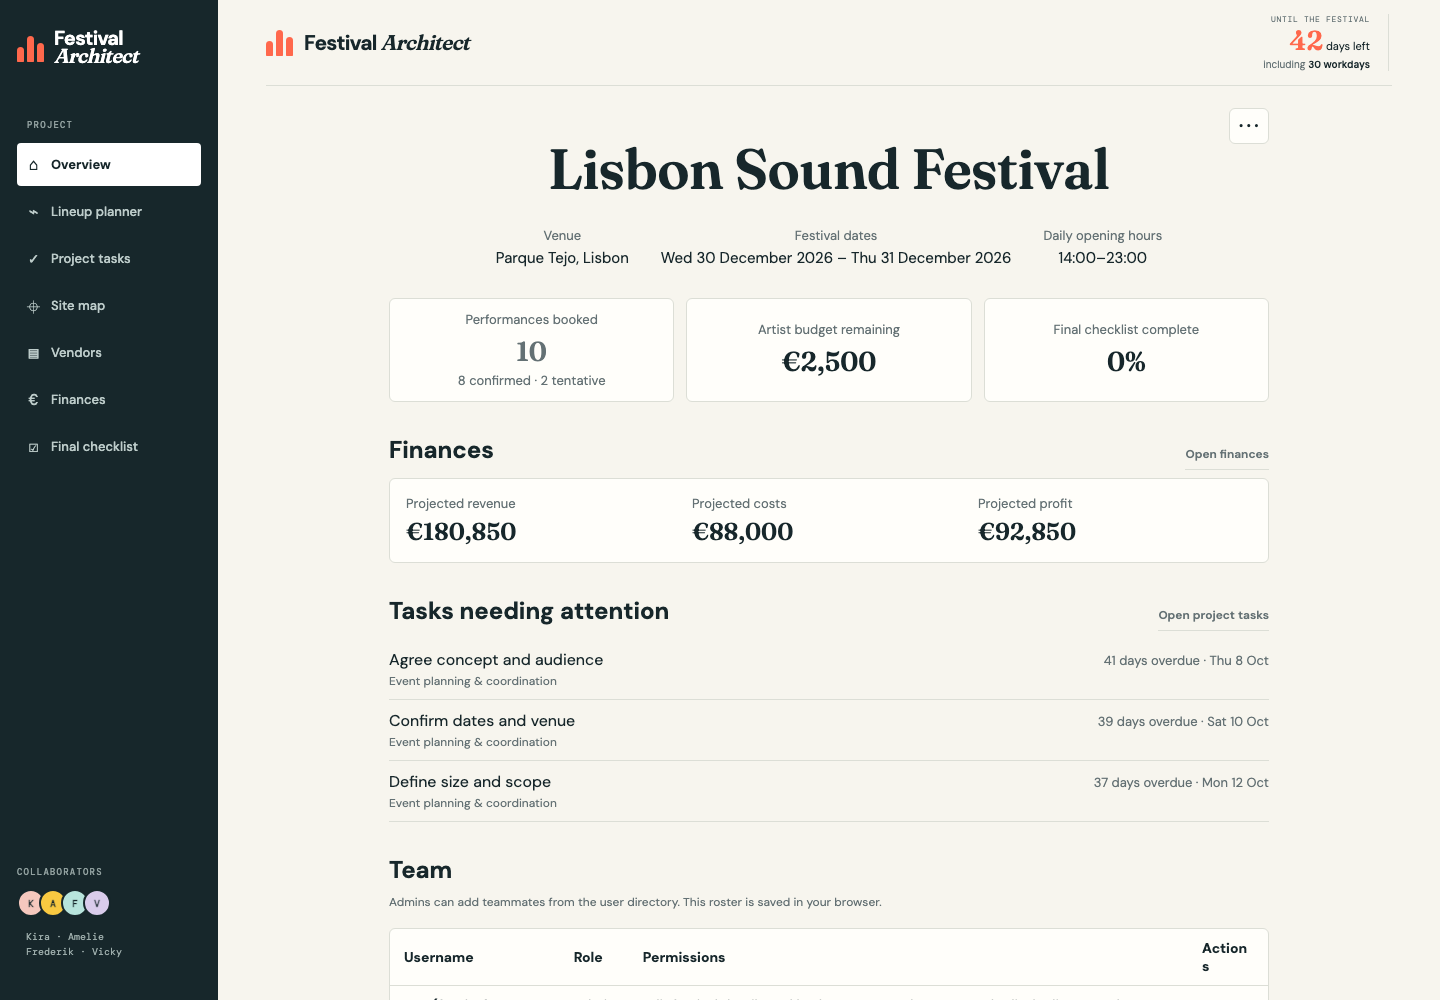
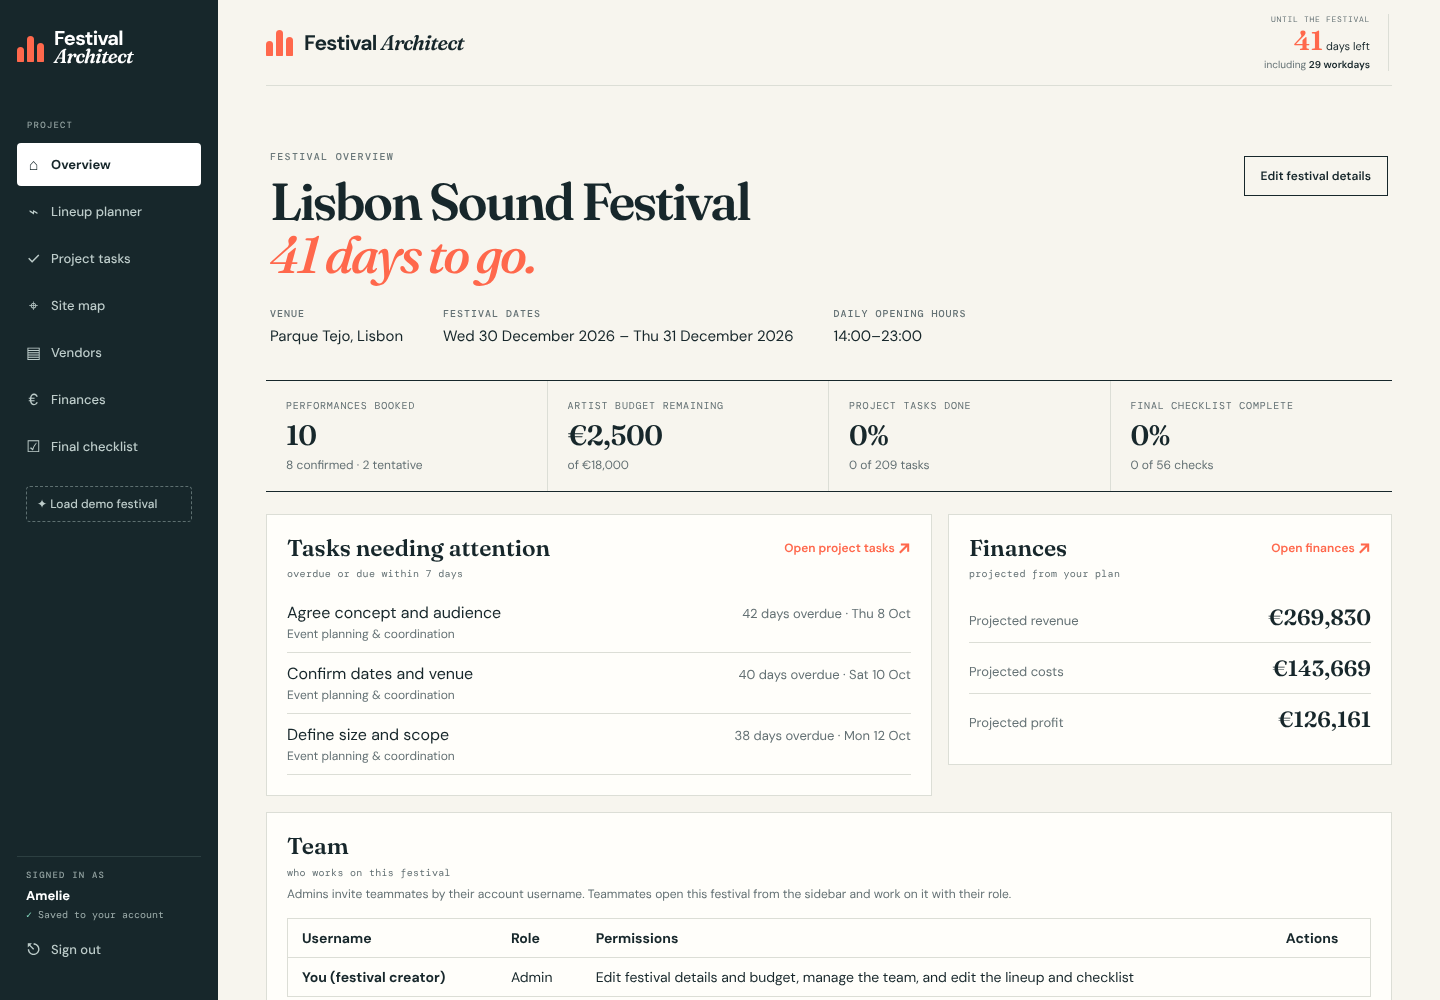
Overview: same width, header, tiles and cards as the other sections
- full width and left-aligned like Lineup, Tasks, Site map, Vendors, Finances
- headline with an orange countdown line; visible "Edit festival details"
- tile row in the Finances style, new "Project tasks done" tile
- tasks and finances side by side as cards with "Open … ↗" links
- all IDs unchanged; no test changed

Claude-Session: https://claude.ai/code/session_015vEMde25idnxUhkYQg1wjU

diff --git a/styles.css b/styles.css
@@ -100,25 +100,6 @@ button:disabled{opacity:.4;cursor:default;transform:none}.form-grid{margin-botto
 @media(max-width:650px){.plan-tools-copy{flex-basis:100%}.plan-tools{gap:8px 20px}.slot-actions,.restore-actions{justify-content:flex-start}.slot-actions .quiet{margin-left:0}.calendar-help{font-size:11px}.dialog-actions .secondary{display:block}}
 @media print{.plan-tools,.calendar-help,.add-stage-slot,.calendar-slot-trigger{display:none!important}.vertical-performance .entry-status{font-size:6px;line-height:8px}.vertical-performance.tentative{border-left-style:dashed}}
 
-#overview-view{position:relative;max-width:880px;margin:0 auto;padding:54px 0}
-.overview-heading{text-align:center}
-.overview-heading h1{font:600 clamp(32px,5vw,56px)/1.05 Fraunces,serif;margin:0 40px 28px;overflow-wrap:anywhere}
-.overview-facts{display:flex;flex-wrap:wrap;justify-content:center;gap:18px 32px;margin:0 0 28px}
-.overview-facts div{max-width:100%;overflow-wrap:anywhere}
-.overview-facts dt,.overview-stat span{font-size:13px;color:var(--muted)}
-.overview-facts dd{margin:4px 0 0;font-size:15px}
-.overview-menu{position:absolute;top:22px;right:0;z-index:2}
-.overview-menu summary{list-style:none;display:grid;place-items:center;width:40px;height:36px;border:1px solid var(--line);border-radius:6px;background:var(--white);font-size:23px;cursor:pointer}
-.overview-menu summary::-webkit-details-marker{display:none}
-.overview-menu div{position:absolute;right:0;margin-top:6px;padding:5px;background:var(--white);border:1px solid var(--line);border-radius:6px;box-shadow:0 6px 18px #17272b16}
-.overview-menu button{white-space:nowrap;border:0;background:transparent;color:var(--ink);font:inherit;padding:8px 10px;cursor:pointer}
-.overview-menu button:hover,.overview-stat:hover{background:#eeeee6}
-.overview-snapshot{display:grid;grid-template-columns:repeat(3,minmax(0,1fr));gap:12px;margin:30px 0 48px}
-.overview-stat{display:flex;flex-direction:column;align-items:center;justify-content:center;gap:7px;min-height:96px;padding:12px;border:1px solid var(--line);border-radius:6px;background:var(--white);color:var(--ink);font:inherit;cursor:pointer}
-.overview-stat strong{font:600 27px Fraunces,serif;max-width:100%;overflow-wrap:anywhere}
-.overview-booking-counts{display:grid;justify-items:center;gap:4px}
-.overview-team h2{margin:0 0 8px}
-.overview-summary{margin:0 0 32px}
 #overview-task-list{list-style:none;margin:0;padding:0}
 #overview-task-list li{border-bottom:1px solid var(--line)}
 #overview-task-list button{display:flex;justify-content:space-between;align-items:baseline;gap:12px;width:100%;padding:10px 0;border:0;background:transparent;color:var(--ink);font:inherit;text-align:left;cursor:pointer}
@@ -128,9 +109,9 @@ button:disabled{opacity:.4;cursor:default;transform:none}.form-grid{margin-botto
 #overview-task-list time{flex-shrink:0;color:var(--muted);font-size:13px}
 #overview-task-empty{color:var(--muted)}
 .overview-team .field-help{color:var(--muted)}
-.overview-table-wrap{overflow-x:auto;border:1px solid var(--line);border-radius:6px;background:var(--white)}
+.overview-table-wrap{overflow-x:auto;border:1px solid var(--line);background:var(--white)}
 .overview-table{width:100%;min-width:490px;border-collapse:collapse;font-size:14px;text-align:left}
-.overview-table th,.overview-table td{padding:10px 14px;border-bottom:1px solid var(--line);overflow-wrap:anywhere}
+.overview-table th,.overview-table td{padding:10px 14px;border-bottom:1px solid var(--line);overflow-wrap:break-word}
 .overview-table th[scope=row]{max-width:180px}
 .overview-table tr:last-child td,.overview-table tr:last-child th[scope=row]{border-bottom:0}
 #team-form{display:grid;grid-template-columns:minmax(0,1fr) minmax(100px,150px) auto;align-items:end;gap:12px;margin-top:16px}
@@ -138,12 +119,60 @@ button:disabled{opacity:.4;cursor:default;transform:none}.form-grid{margin-botto
 #team-form input,#team-form select,.overview-table select{min-width:0;padding:8px;border:1px solid var(--line);border-radius:4px;background:var(--white);color:var(--ink);font:inherit}
 .overview-dialog-actions{display:flex;flex-wrap:wrap;justify-content:flex-end;gap:10px}
 #overview-view [role=status]:empty,#overview-view .form-message:empty,#overview-form .form-message:empty{display:none}
+/* Overview — same width, header, figures and cards as the other sections (feature-plans/overview-design.md). */
+#overview-view{position:relative;padding:0 0 28px}
+.overview-hero{display:flex;justify-content:space-between;align-items:flex-start;gap:24px}
+.overview-hero h1{overflow-wrap:anywhere}
+.overview-hero h1 em:empty,.overview-hero h1:has(em:empty) br{display:none}
+.overview-facts{display:flex;flex-wrap:wrap;gap:12px 40px;margin:26px 0 0}
+.overview-facts div{max-width:100%;overflow-wrap:anywhere}
+.overview-facts dt{font:500 10px 'DM Mono',monospace;letter-spacing:1px;color:var(--muted);text-transform:uppercase}
+.overview-facts dd{margin:6px 0 0;font-size:15px}
+.overview-hero #overview-setup{margin-top:26px}
+.overview-menu{flex:none;margin-top:6px}
+.overview-kpis{display:grid;grid-template-columns:repeat(4,minmax(0,1fr));border-top:1px solid var(--ink);border-bottom:1px solid var(--ink);margin:0 0 22px}
+.overview-kpi{display:block;min-width:0;padding:18px 20px;border:0;border-right:1px solid var(--line);background:transparent;color:var(--ink);font:inherit;text-align:left;cursor:pointer}
+.overview-kpi:last-child{border-right:0}
+.overview-kpi:hover{background:var(--white)}
+.overview-kpi:focus-visible,.overview-open:focus-visible{outline:2px solid var(--coral);outline-offset:-2px}
+.overview-kpi>span{display:block;font:10px 'DM Mono',monospace;letter-spacing:.8px;color:var(--muted);margin-bottom:8px;text-transform:uppercase}
+.overview-kpi strong{display:block;font:600 28px/1.1 Fraunces,serif;letter-spacing:-.6px;overflow-wrap:anywhere}
+.overview-kpi small{display:block;font-size:12px;color:var(--muted);margin-top:6px}
+.overview-columns{display:grid;grid-template-columns:minmax(0,3fr) minmax(0,2fr);gap:16px;align-items:start;margin-bottom:16px}
+.overview-card{padding:20px;border:1px solid var(--line);background:var(--white)}
+.overview-card+.overview-card{margin-top:16px}
+.overview-columns .overview-card+.overview-card{margin-top:0}
+.overview-card-heading{display:flex;justify-content:space-between;align-items:flex-start;gap:16px;margin-bottom:12px}
+.overview-card-heading h2{margin:0;font:600 23px/1.2 Fraunces,serif}
+.overview-card-heading h2 small{display:block;margin-top:5px;font:10px 'DM Mono',monospace;color:var(--muted);letter-spacing:.3px}
+.overview-open{flex:none;border:0;background:transparent;padding:4px 0;font:600 12px 'DM Sans',sans-serif;color:var(--coral);white-space:nowrap;cursor:pointer}
+.overview-open:hover{text-decoration:underline}
+.overview-open span{font-size:17px;line-height:1;vertical-align:-1px;margin-left:3px}
+.overview-finances{display:grid;margin:0}
+.overview-finances div{display:flex;justify-content:space-between;align-items:baseline;gap:12px;padding:11px 0;border-bottom:1px solid var(--line)}
+.overview-finances div:last-child{border-bottom:0}
+.overview-finances dt{font-size:13px;color:var(--muted)}
+.overview-finances dd{margin:0;font:600 22px Fraunces,serif;text-align:right;overflow-wrap:anywhere}
+.overview-finances .is-loss{color:#a23e2e}
+.overview-team .overview-card-heading{margin-bottom:6px}
+.overview-team .field-help{margin:0 0 14px}
+@media(max-width:1000px){
+  .overview-kpis{grid-template-columns:1fr 1fr}
+  .overview-kpi:nth-child(2){border-right:0}
+  .overview-kpi:nth-child(-n+2){border-bottom:1px solid var(--line)}
+  .overview-columns{grid-template-columns:minmax(0,1fr)}
+}
 @media(max-width:550px){
-  #overview-view{padding:54px 0 28px}
-  .overview-facts{gap:12px 20px}
-  .overview-snapshot{grid-template-columns:1fr;gap:8px;margin-bottom:32px}
-  .overview-stat{min-height:62px;flex-direction:row;justify-content:space-between}
-  .overview-booking-counts{justify-items:end;text-align:right}
+  .overview-hero{flex-direction:column;gap:14px}
+  .overview-menu{margin-top:0}
+  .overview-facts{gap:12px 24px}
+  .overview-kpi{padding:14px 12px}
+  .overview-kpi strong{font-size:22px}
+  .overview-card{padding:14px}
+  .overview-card-heading{flex-direction:column;gap:6px}
+  .overview-card-heading h2{font-size:19px}
+}
+@media(max-width:550px){
   #overview-task-list button{flex-wrap:wrap;gap:4px 12px}
   #team-form{grid-template-columns:minmax(0,1fr) minmax(90px,115px)}
   #team-form button{justify-self:start}
@@ -461,14 +490,6 @@ button:disabled{opacity:.4;cursor:default;transform:none}.form-grid{margin-botto
 .work-board-card .work-board-due{white-space:normal}
 
 .lineup-actions{display:flex;gap:8px;align-items:center}
-.overview-section-heading{display:flex;gap:10px;align-items:baseline;justify-content:space-between;margin-bottom:8px;flex-wrap:wrap}
-.overview-section-heading h2{margin:0}
-.overview-snapshot{margin-bottom:32px}
-.overview-finances{display:grid;grid-template-columns:repeat(3,minmax(0,1fr));gap:12px;margin:0;background:var(--white);padding:16px;border:1px solid var(--line);border-radius:6px}
-.overview-finances dt{font-size:13px;color:var(--muted)}
-.overview-finances dd{margin:5px 0 0;font:600 clamp(17px,2.5vw,24px) Fraunces,serif;overflow-wrap:anywhere}
-.overview-finances .is-loss{color:#a23e2e}
-@media(max-width:480px){.overview-finances{grid-template-columns:1fr;gap:10px}.overview-finances div{display:flex;align-items:baseline;justify-content:space-between;gap:10px}.overview-finances dd{margin:0;text-align:right}}
 /* Load demo festival (left sidebar) */
 .sidebar-demo{margin:18px 9px 0;border:1px dashed #5d6f70;background:transparent;color:#bdccca;font:500 12px 'DM Sans';text-align:left;padding:9px 10px;border-radius:4px;cursor:pointer}
 .sidebar-demo:hover{border-color:#ff684c;color:#fff}

diff --git a/index.html b/index.html
@@ -119,53 +119,68 @@
       </header>
 
       <main id="overview-view">
-        <details class="overview-menu" id="overview-menu">
-          <summary aria-label="Festival options">⋯</summary>
-          <div><button type="button" id="overview-edit">Edit festival details</button></div>
-        </details>
-        <section class="overview-heading">
-          <h1 id="overview-title">Overview</h1>
-          <dl class="overview-facts">
-            <div id="overview-venue-fact" hidden><dt>Venue</dt><dd id="overview-venue"></dd></div>
-            <div><dt>Festival dates</dt><dd id="overview-dates"></dd></div>
-            <div><dt>Daily opening hours</dt><dd id="overview-hours"></dd></div>
-          </dl>
-          <button type="button" class="button primary" id="overview-setup" hidden>Set up festival</button>
-          <p class="field-help" id="overview-final" hidden>Reopen the final plan in the Lineup Planner to edit these details.</p>
-          <p id="overview-status" role="status"></p>
+        <section class="checklist-hero overview-hero" aria-labelledby="overview-title">
+          <div class="overview-hero-text">
+            <p class="eyebrow">FESTIVAL OVERVIEW</p>
+            <h1><span id="overview-title">Overview</span><br /><em id="overview-tagline"></em></h1>
+            <dl class="overview-facts">
+              <div id="overview-venue-fact" hidden><dt>Venue</dt><dd id="overview-venue"></dd></div>
+              <div><dt>Festival dates</dt><dd id="overview-dates"></dd></div>
+              <div><dt>Daily opening hours</dt><dd id="overview-hours"></dd></div>
+            </dl>
+            <button type="button" class="button primary" id="overview-setup" hidden>Set up festival</button>
+            <p class="field-help" id="overview-final" hidden>Reopen the final plan in the Lineup Planner to edit these details.</p>
+            <p id="overview-status" role="status"></p>
+          </div>
+          <div class="overview-menu" id="overview-menu">
+            <button type="button" class="button secondary" id="overview-edit">Edit festival details</button>
+          </div>
         </section>
-        <section class="overview-snapshot" aria-label="Planning progress">
-          <button type="button" class="overview-stat" data-open-section="Lineup planner">
+        <section class="overview-kpis" aria-label="Planning progress">
+          <button type="button" class="overview-kpi" data-open-section="Lineup planner">
             <span>Performances booked</span>
-            <span class="overview-booking-counts">
-              <strong id="overview-performances"></strong>
-              <span id="overview-booking-status"></span>
-            </span>
+            <strong id="overview-performances"></strong>
+            <small id="overview-booking-status"></small>
           </button>
-          <button type="button" class="overview-stat" data-open-section="Lineup planner"><span>Artist budget remaining</span><strong id="overview-budget"></strong></button>
-          <button type="button" class="overview-stat" data-open-section="Final checklist"><span>Final checklist complete</span><strong id="overview-checklist"></strong></button>
+          <button type="button" class="overview-kpi" data-open-section="Lineup planner">
+            <span>Artist budget remaining</span>
+            <strong id="overview-budget"></strong>
+            <small id="overview-budget-total"></small>
+          </button>
+          <button type="button" class="overview-kpi" data-open-section="Task board">
+            <span>Project tasks done</span>
+            <strong id="overview-tasks-done">–</strong>
+            <small id="overview-tasks-count"></small>
+          </button>
+          <button type="button" class="overview-kpi" data-open-section="Final checklist">
+            <span>Final checklist complete</span>
+            <strong id="overview-checklist"></strong>
+            <small id="overview-checklist-count"></small>
+          </button>
         </section>
-        <section class="overview-summary" id="overview-finances" aria-labelledby="overview-finances-title">
-          <div class="overview-section-heading">
-            <h2 id="overview-finances-title">Finances</h2>
-            <button type="button" class="button quiet" data-open-section="Finances">Open finances</button>
-          </div>
-          <dl class="overview-finances">
-            <div><dt>Projected revenue</dt><dd id="overview-revenue"></dd></div>
-            <div><dt>Projected costs</dt><dd id="overview-costs"></dd></div>
-            <div><dt id="overview-profit-label">Projected profit or loss</dt><dd id="overview-profit"></dd></div>
-          </dl>
-        </section>
-        <section class="overview-summary" id="overview-tasks" aria-labelledby="overview-tasks-title">
-          <div class="overview-section-heading">
-            <h2 id="overview-tasks-title">Tasks needing attention</h2>
-            <button type="button" class="button quiet" data-open-section="Task board">Open project tasks</button>
-          </div>
-          <ul id="overview-task-list"></ul>
-          <p class="field-help" id="overview-task-empty" hidden>No unfinished tasks are overdue or due in the next seven days.</p>
-        </section>
-        <section class="overview-team" aria-labelledby="overview-team-title">
-          <h2 id="overview-team-title">Team</h2>
+        <div class="overview-columns">
+          <section class="overview-card" id="overview-tasks" aria-labelledby="overview-tasks-title">
+            <div class="overview-card-heading">
+              <h2 id="overview-tasks-title">Tasks needing attention <small>overdue or due within 7 days</small></h2>
+              <button type="button" class="overview-open" data-open-section="Task board">Open project tasks<span aria-hidden="true">↗</span></button>
+            </div>
+            <ul id="overview-task-list"></ul>
+            <p class="field-help" id="overview-task-empty" hidden>No unfinished tasks are overdue or due in the next seven days.</p>
+          </section>
+          <section class="overview-card" id="overview-finances" aria-labelledby="overview-finances-title">
+            <div class="overview-card-heading">
+              <h2 id="overview-finances-title">Finances <small>projected from your plan</small></h2>
+              <button type="button" class="overview-open" data-open-section="Finances">Open finances<span aria-hidden="true">↗</span></button>
+            </div>
+            <dl class="overview-finances">
+              <div><dt>Projected revenue</dt><dd id="overview-revenue"></dd></div>
+              <div><dt>Projected costs</dt><dd id="overview-costs"></dd></div>
+              <div><dt id="overview-profit-label">Projected profit or loss</dt><dd id="overview-profit"></dd></div>
+            </dl>
+          </section>
+        </div>
+        <section class="overview-card overview-team" aria-labelledby="overview-team-title">
+          <div class="overview-card-heading"><h2 id="overview-team-title">Team <small>who works on this festival</small></h2></div>
           <p class="field-help" id="team-help">Admins invite teammates by their account username. Teammates open this festival from the sidebar and work on it with their role.</p>
           <div class="overview-table-wrap" tabindex="0" role="region" aria-label="Festival team">
             <table class="overview-table">

diff --git a/overview.js b/overview.js
@@ -13,6 +13,7 @@ function renderOverview() {
   const event = state.event;
   const checklist = progress(parseChecked(localStorage.getItem(CHECKLIST_STORAGE_KEY)));
   $('#overview-title').textContent = event.name || 'Overview';
+  $('#overview-tagline').textContent = event.name ? festivalTagline(event) : '';
   $('#overview-venue').textContent = event.venue || '';
   $('#overview-venue-fact').hidden = !event.venue;
   const firstDay = `${dateText(event.startDate)} ${event.startDate.slice(0, 4)}`;
@@ -30,7 +31,9 @@ function renderOverview() {
   $('#overview-performances').textContent = bookings.length;
   $('#overview-booking-status').textContent = `${confirmed} confirmed · ${bookings.length - confirmed} tentative`;
   $('#overview-budget').textContent = euros(state.settings.budget - total());
+  $('#overview-budget-total').textContent = `of ${euros(state.settings.budget)}`;
   $('#overview-checklist').textContent = `${checklist.percent}%`;
+  $('#overview-checklist-count').textContent = `${checklist.done} of ${checklist.total} checks`;
   renderOverviewFinance();
   renderOverviewTasks();
 }
@@ -46,7 +49,30 @@ function renderOverviewFinance() {
   $('#overview-profit').classList.toggle('is-loss', loss);
 }
 
+// The orange second line of the headline: how long until the festival (Lisbon date).
+function festivalTagline(event) {
+  if (typeof festivalCountdown !== 'function') return '';
+  const today = new Intl.DateTimeFormat('en-CA', { timeZone: 'Europe/Lisbon', year: 'numeric', month: '2-digit', day: '2-digit' }).format(new Date());
+  try {
+    const { days, status } = festivalCountdown(today, event.startDate, event.endDate);
+    if (status === 'today') return 'Gates open today.';
+    if (status === 'ongoing') return 'Happening right now.';
+    if (status === 'ended') return 'That’s a wrap.';
+    return days === 1 ? '1 day to go.' : `${days} days to go.`;
+  } catch {
+    return '';
+  }
+}
+
+function renderOverviewTaskProgress() {
+  const tasks = window.getOverviewTaskProgress?.();
+  if (!tasks) return;
+  $('#overview-tasks-done').textContent = tasks.total ? `${Math.round((tasks.done / tasks.total) * 100)}%` : '–';
+  $('#overview-tasks-count').textContent = `${tasks.done} of ${tasks.total} tasks`;
+}
+
 function renderOverviewTasks() {
+  renderOverviewTaskProgress();
   const tasks = window.getOverviewUrgentTasks?.();
   if (!tasks) return;
   $('#overview-task-list').innerHTML = tasks.map(({ id, title, area, end, deadline }) => `
@@ -116,7 +142,7 @@ $('#overview-setup').onclick = openFestivalDetails;
 $('#overview-edit').onclick = openFestivalDetails;
 $('#overview-cancel').onclick = () => $('#overview-dialog').close();
 $('#overview-dialog').addEventListener('close', () => {
-  if (state.event.name) $('#overview-menu summary').focus();
+  if (state.event.name) $('#overview-edit').focus();
   else $('#overview-setup').focus();
 });
 $('#overview-form').addEventListener('submit', event => {

diff --git a/work-board.js b/work-board.js
@@ -83,6 +83,13 @@
     window.dispatchEvent(new Event('work-board-updated'));
   }
 
+  // Overview → "Project tasks done": finished subtasks of the whole plan.
+  window.getOverviewTaskProgress = () => {
+    const date = today();
+    const steps = projectSteps();
+    return { done: steps.filter(step => statusOf(step, date) === 'done').length, total: steps.length };
+  };
+
   window.getOverviewUrgentTasks = () => {
     const date = today();
     return urgentSteps(projectSteps(), date).slice(0, 3).map(({ id, title, area, end }) => ({

diff --git a/feature-plans/overview-design.md b/feature-plans/overview-design.md
@@ -1,0 +1,35 @@
+# Overview — same look as the other sections
+
+Owner: Amelie · Branch: `feature-overview-design` (after shared festivals, #18)
+
+## Why
+
+The Overview was 880 px wide and centred, while every other section uses the full width,
+a left-aligned header (small label, two-line serif headline with an orange italic second
+line) and square white cards. Moving between sections felt like switching apps, and the
+festival options were hidden behind a "⋯" menu.
+
+## What
+
+- [x] Same width and margins as the other sections (measured: content 266 px from the left
+      edge, 1126 px wide at 1440 px, like Lineup, Tasks, Site map, Vendors, Finances, Checklist).
+- [x] Header like the others: "FESTIVAL OVERVIEW", the festival name, and in orange italics
+      how long until the festival ("41 days to go.", "Gates open today.", "Happening right
+      now.", "That's a wrap."). Venue, dates and hours as labelled facts in one row.
+- [x] "Edit festival details" is a visible button for Admins instead of the "⋯" menu.
+- [x] Key figures as one row of tiles in the style of the Finances page: performances,
+      artist budget remaining (of the total), project tasks done (new) and final checklist
+      (with "x of 56 checks"). Each tile opens its section.
+- [x] "Tasks needing attention" and "Finances" side by side as cards with serif titles and
+      orange "Open … ↗" links, like the Task board; the Team below as a card.
+- [x] One column on phones and narrow laptops.
+
+## Out of scope
+
+Assigning tasks and team progress (next feature), new data, changes to other sections.
+
+## Done when
+
+All tests pass; the overview lines up with the other sections at 1440 px, 1100 px and 390 px;
+every ID the pages and tests use still exists; first-time setup, editing details, team and
+the tile links still work after a reload.

diff --git a/PROJECT_PROGRESS.md b/PROJECT_PROGRESS.md
@@ -269,3 +269,11 @@ Changed in my own new tests from #17 (not team tests): `tests/account-rules.test
 Validation: all JavaScript tests pass. Browser check in Chrome against a simulated Supabase: 24 sharing checks (invite, switcher, Editor rights, finances blocked, teammate bar, merge of simultaneous saves, Viewer, removal, no console errors) plus the 35 login checks. Database rules in a real Postgres (PGlite), with and without Supabase's default grants: 34 checks.
 
 Supabase: migration 003 applied on 19 November through the connector, with Amelie's approval. All three tables have RLS on (festivals 4, festival_members 4, profiles 1 policies); signed-out visitors have no table access. Supabase's security check now only notes that "leaked password protection" is off — that feature needs the paid Pro plan. The performance check only notes that the two new indexes have not been used yet (there are no teams yet).
+
+## Overview design — 19 November 2026
+
+Branch: `feature-overview-design` (owner: Amelie). Plan: `feature-plans/overview-design.md`.
+
+The Overview now has the same width, left-aligned header, tile row and square cards as the other sections (it was 880 px and centred). Headline: festival name plus an orange countdown line. "Edit festival details" is a visible button instead of the "⋯" menu. New tile "Project tasks done" (from the Task board, via `window.getOverviewTaskProgress` in `work-board.js`). "Tasks needing attention" and "Finances" sit side by side; one column on narrow screens. All element IDs stay the same, so no test changed.
+
+Validation: all JavaScript tests pass; screenshots at 1440, 1100 and 390 px; login (35) and sharing (24) browser checks pass.
